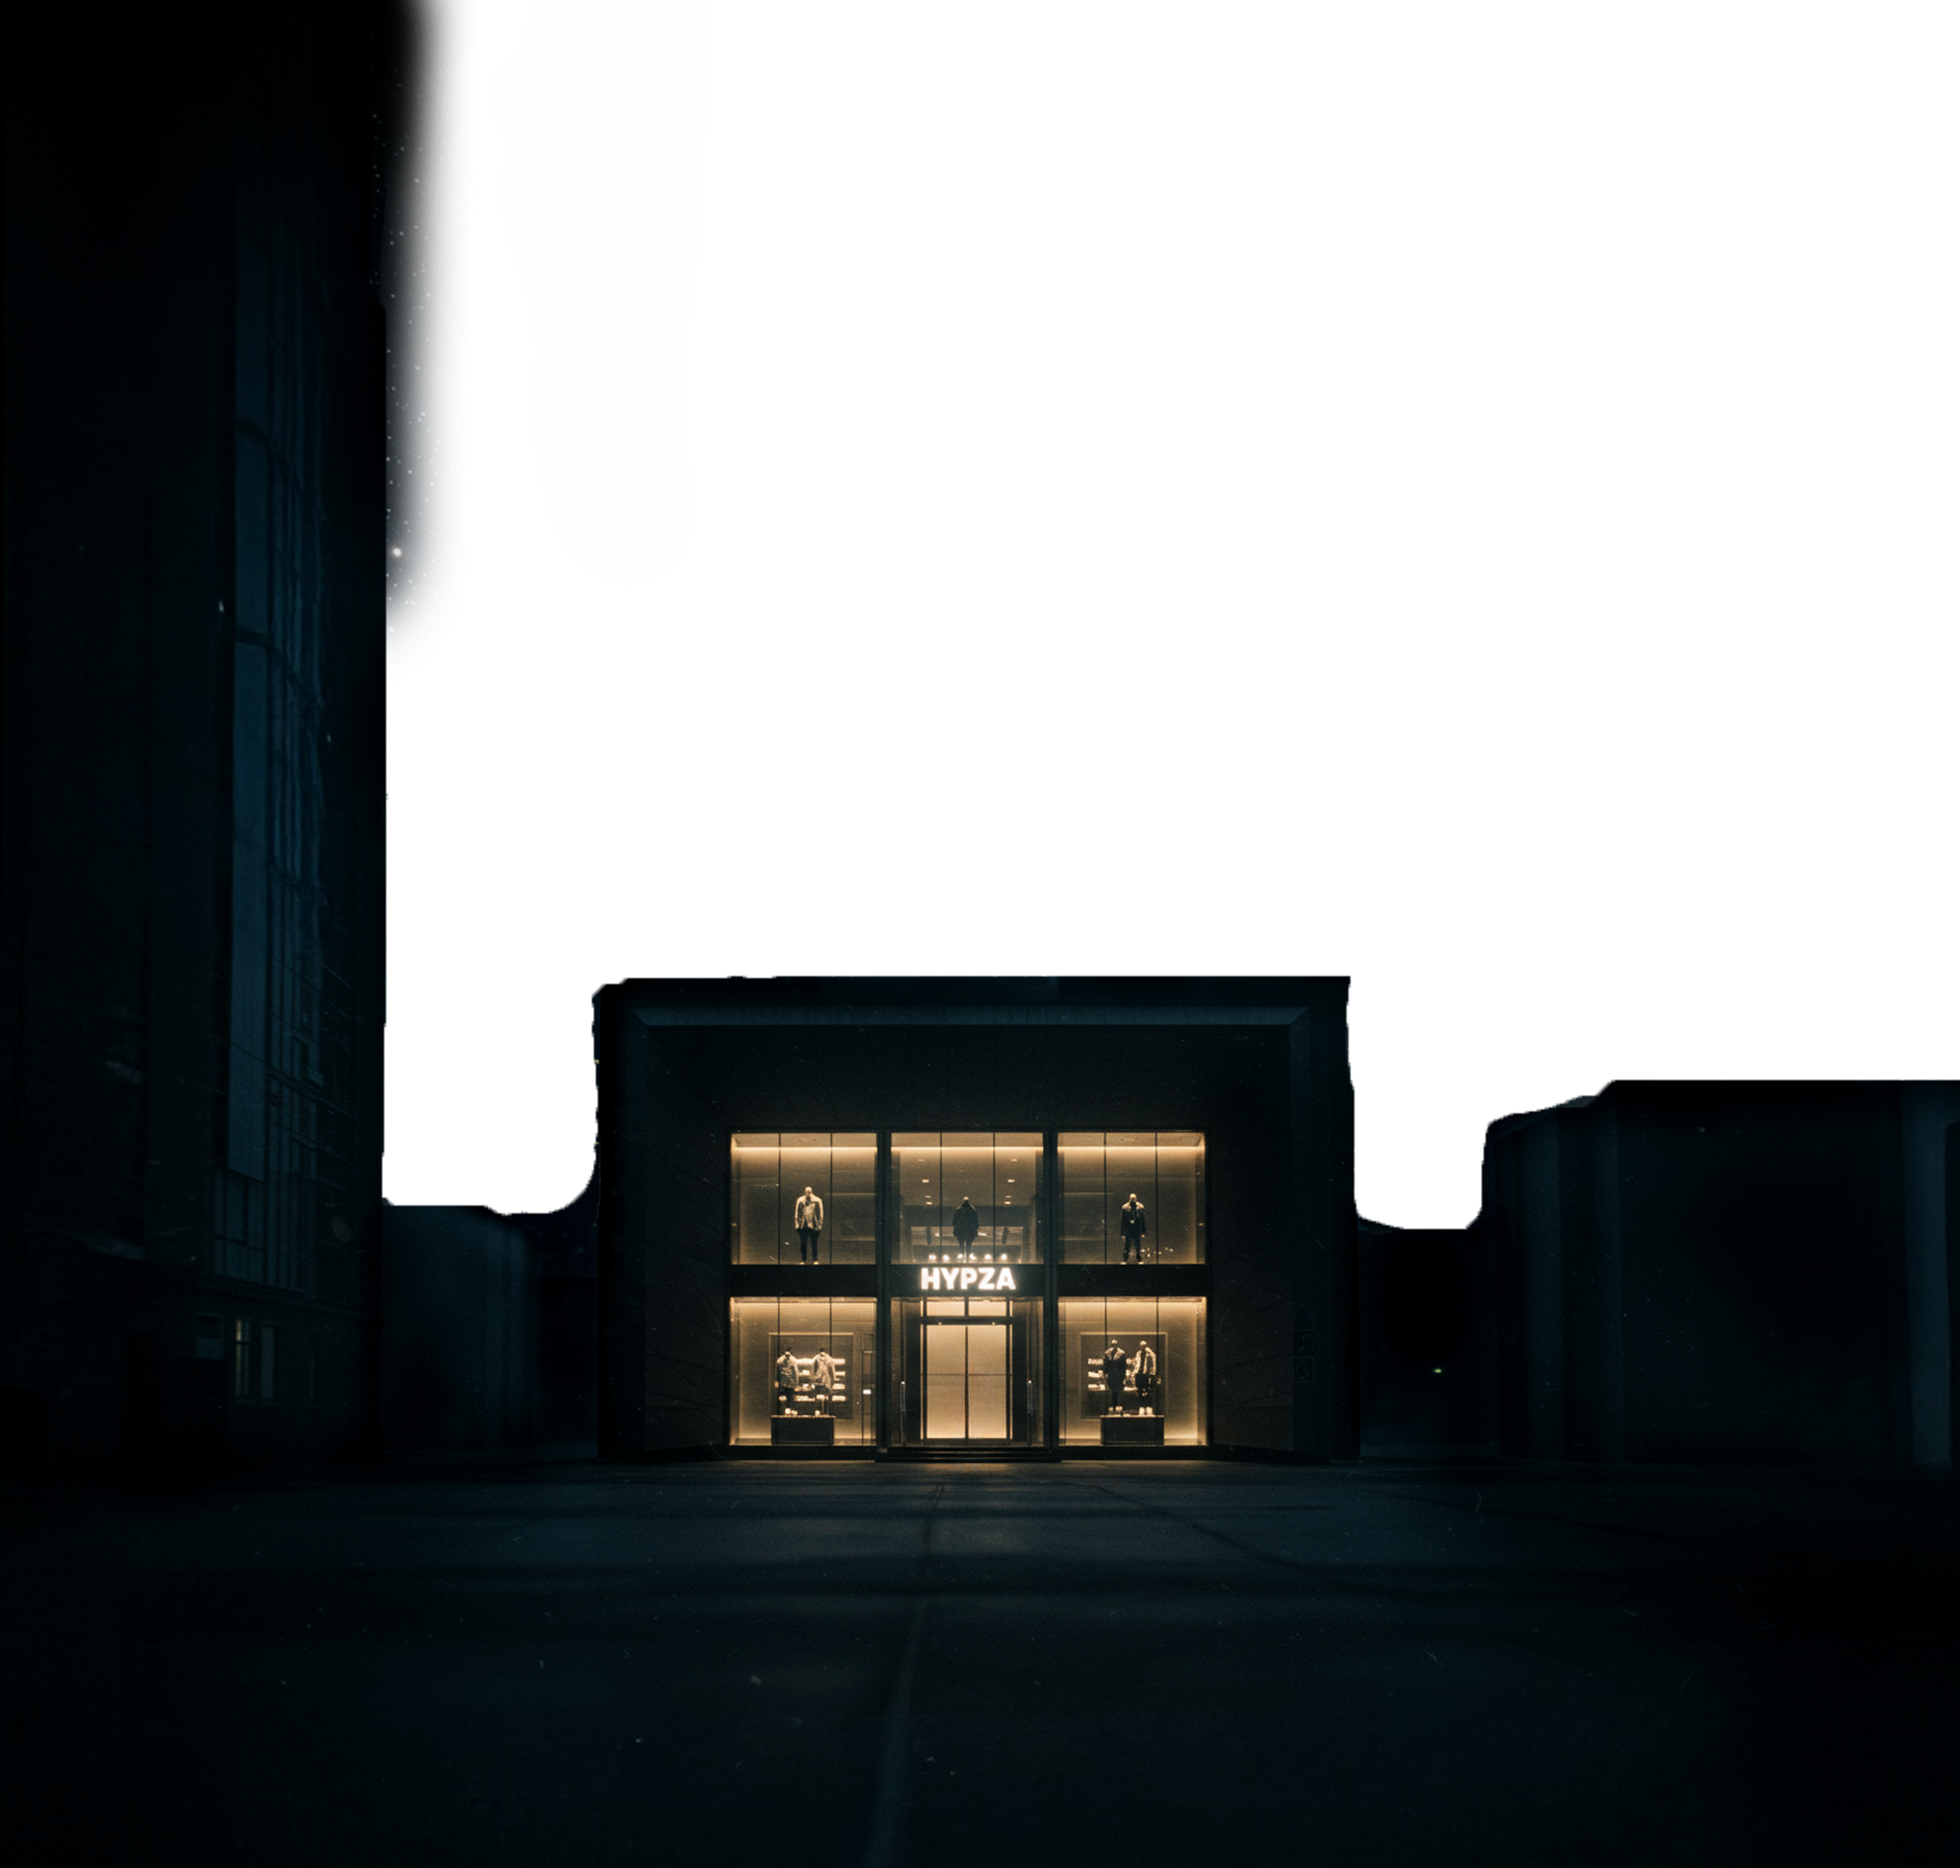
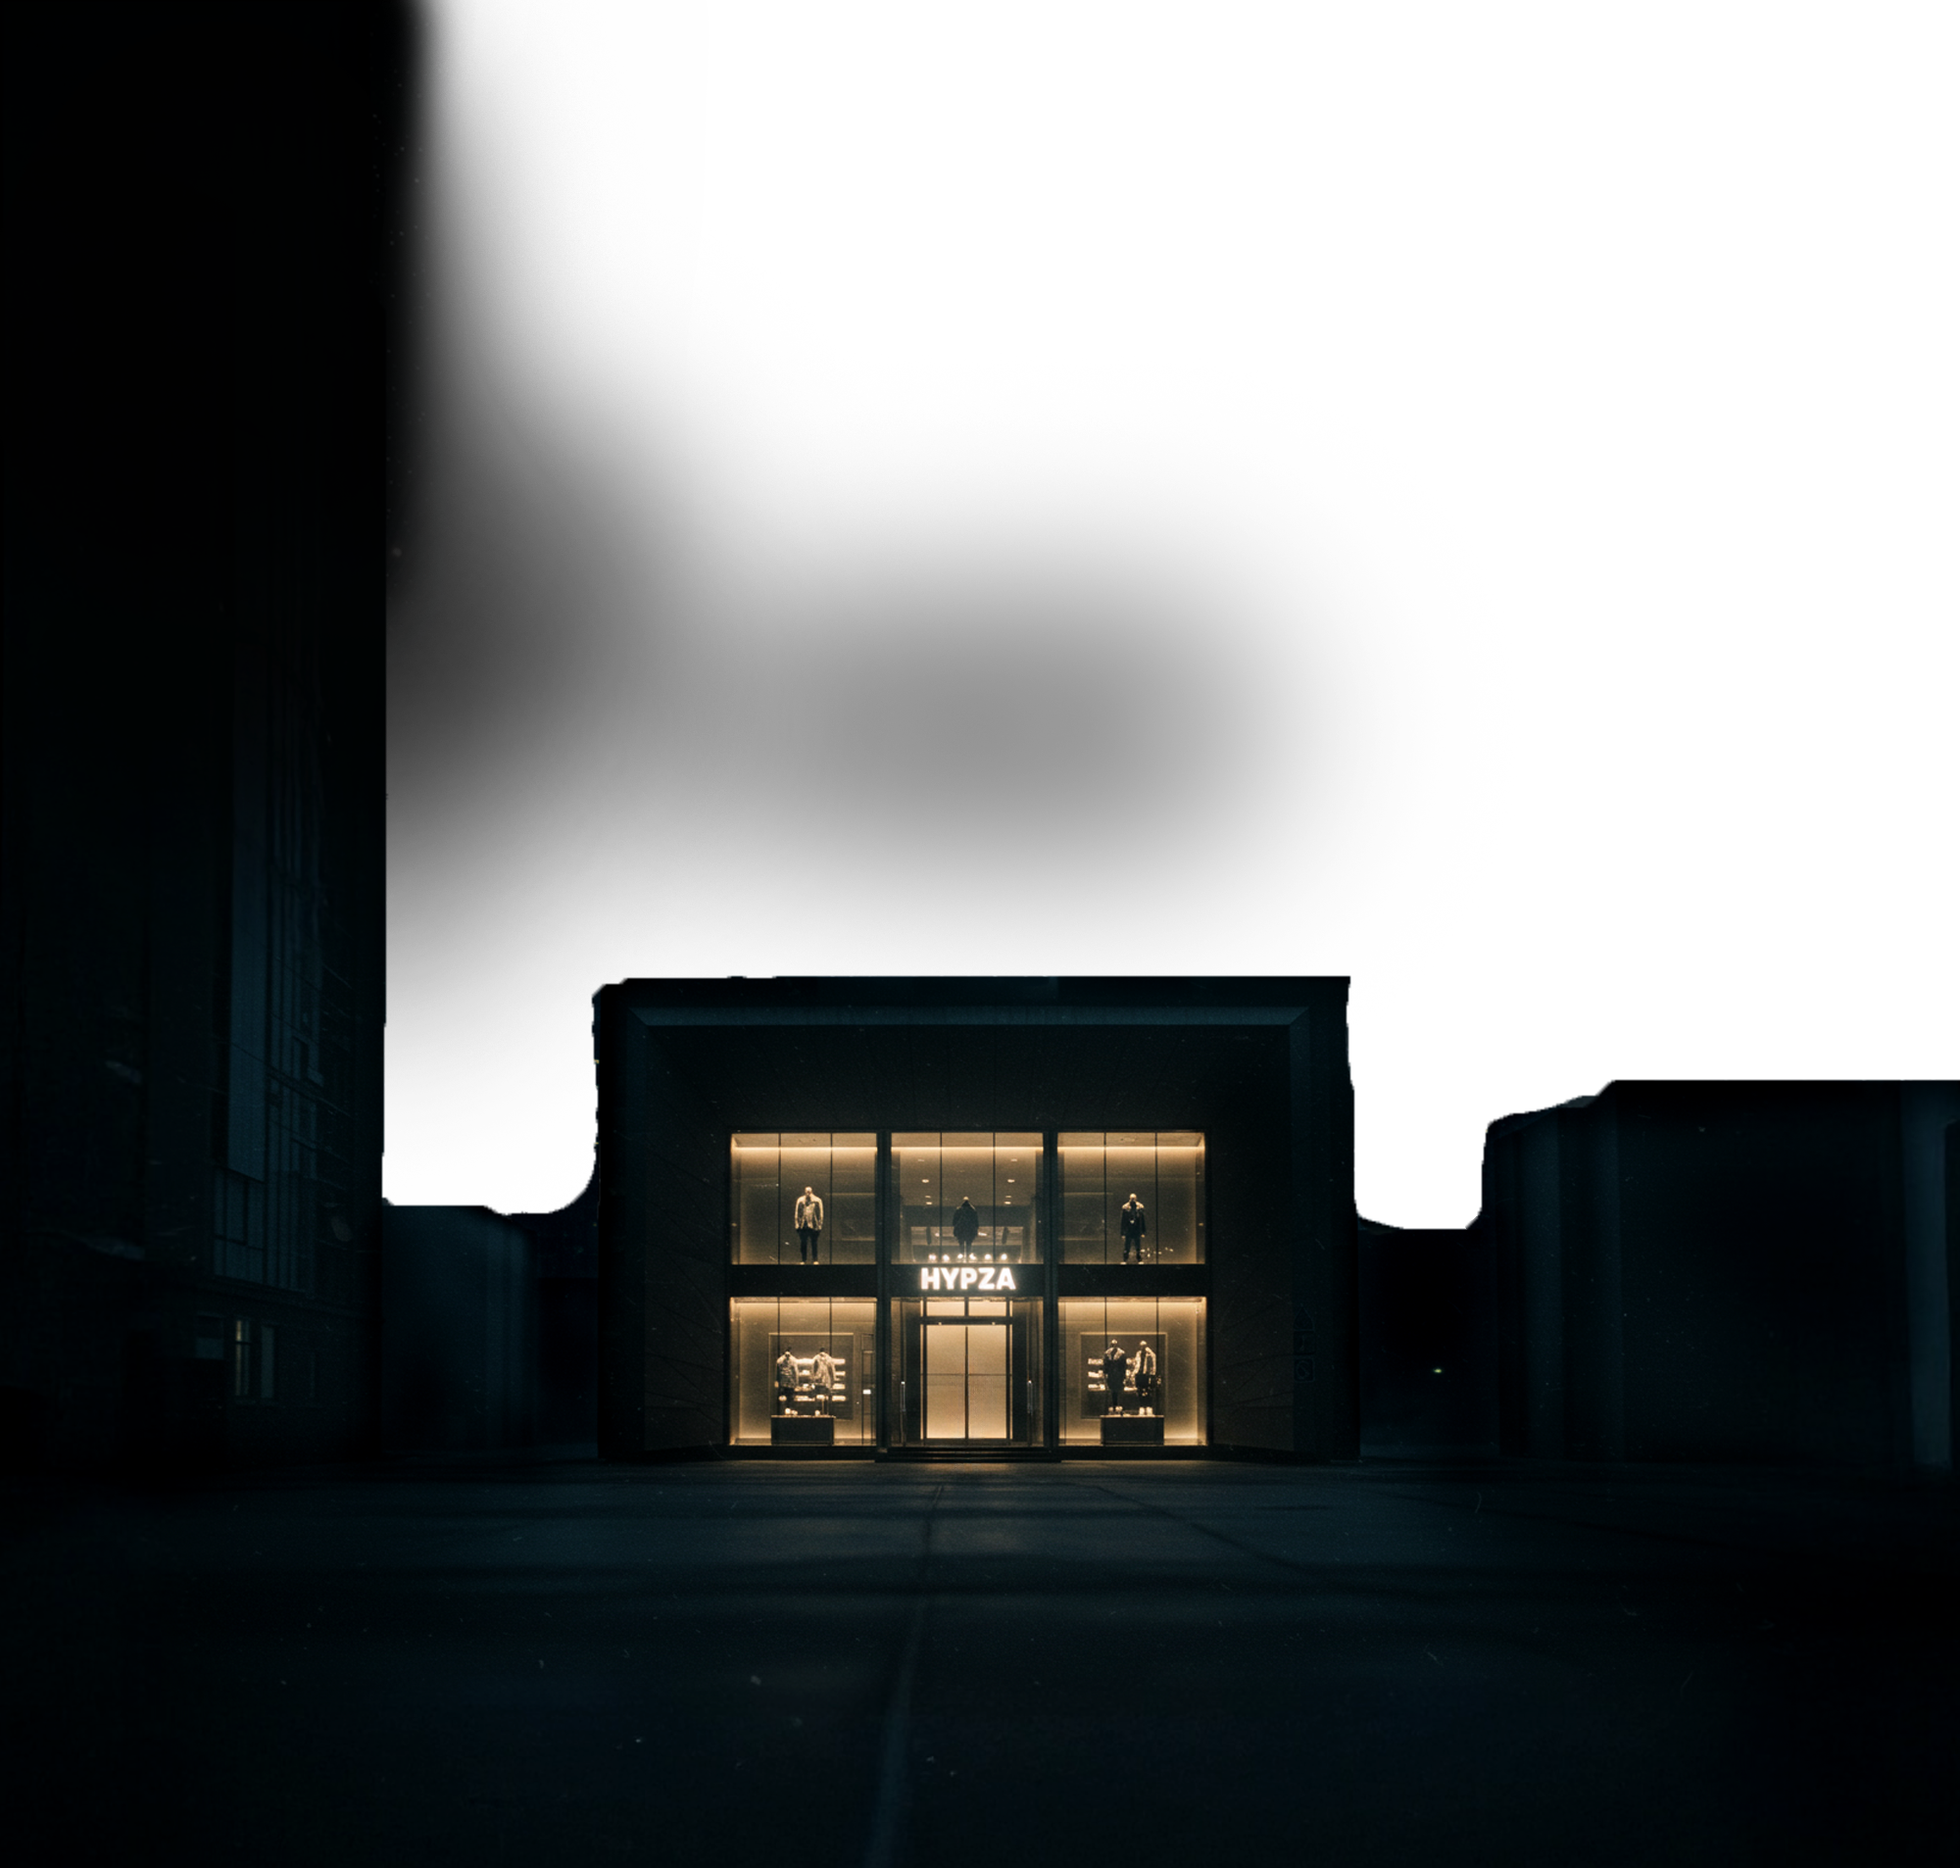
xxxxx

Changed region(s): [[0.093, 0.0, 0.682, 0.5572]]

diff --git a/paralax_1.css b/paralax_1.css
@@ -2,10 +2,10 @@
 /* Osmo UI: https://slater.app/10324/23333.css */
 
 .div_paralax {
+    margin-top: -100px;
     background-color: var(--color-neutral-900);
     color: var(--color-light);
     font-size: var(--size-font);
-    margin: 0;
     padding: 0;
 }
 
@@ -40,13 +40,14 @@
 }
 
 .parallax {
+
     width: 100%;
     position: relative;
     overflow: hidden;
 }
 
 .parallax__content {
-    min-height: 100vh;
+    min-height: 20vh;
 }
 
 .cover {

diff --git a/index.php b/index.php
@@ -523,7 +523,7 @@
             <div class="parallax__visuals">
                 <div class="parallax__black-line-overflow"></div>
                 <div data-parallax-layers class="parallax__layers">
-                    <img src="filali_page_1.png" loading="eager"  data-parallax-layer="1" alt="" class="parallax__layer-img">
+                    <img src="filali_page_1.jpg" loading="eager"  data-parallax-layer="1" alt="" class="parallax__layer-img">
                     <img src="paralax_2.png" loading="eager"  data-parallax-layer="2" alt="" class="parallax__layer-img">
                     <div data-parallax-layer="3" class="parallax__layer-title">
                         <h2 class="parallax__title">HYPEZA</h2>
